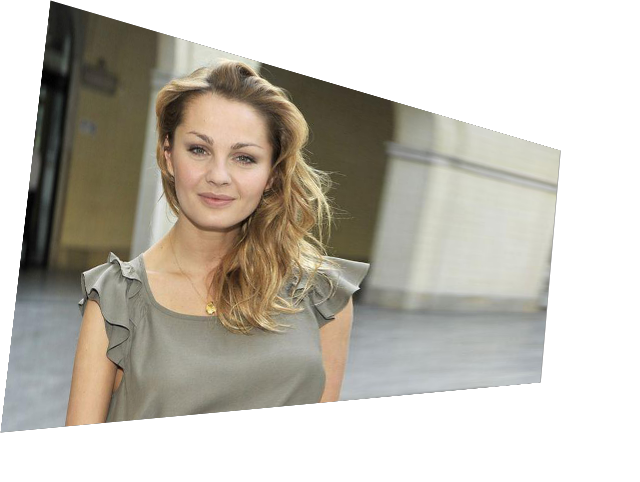
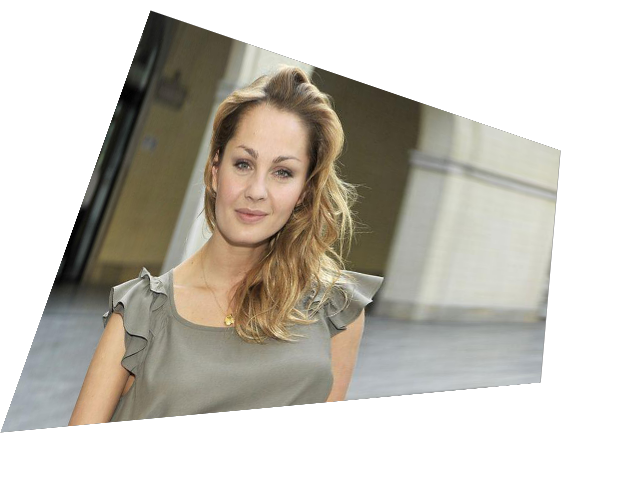
Moved vertex

diff --git a/free-transform/free-transform.php b/free-transform/free-transform.php
@@ -57,7 +57,7 @@ $width = imagesx($src);
 $height = imagesy($src);
 $dst = imagecreatetruecolor($width, $height);
 
-$A = array(50, 0);
+$A = array(150, 10);
 $B = array($width - 80, 150);
 $C = array($width - 100, $height - 100);
 $D = array(0, $height - 50);
